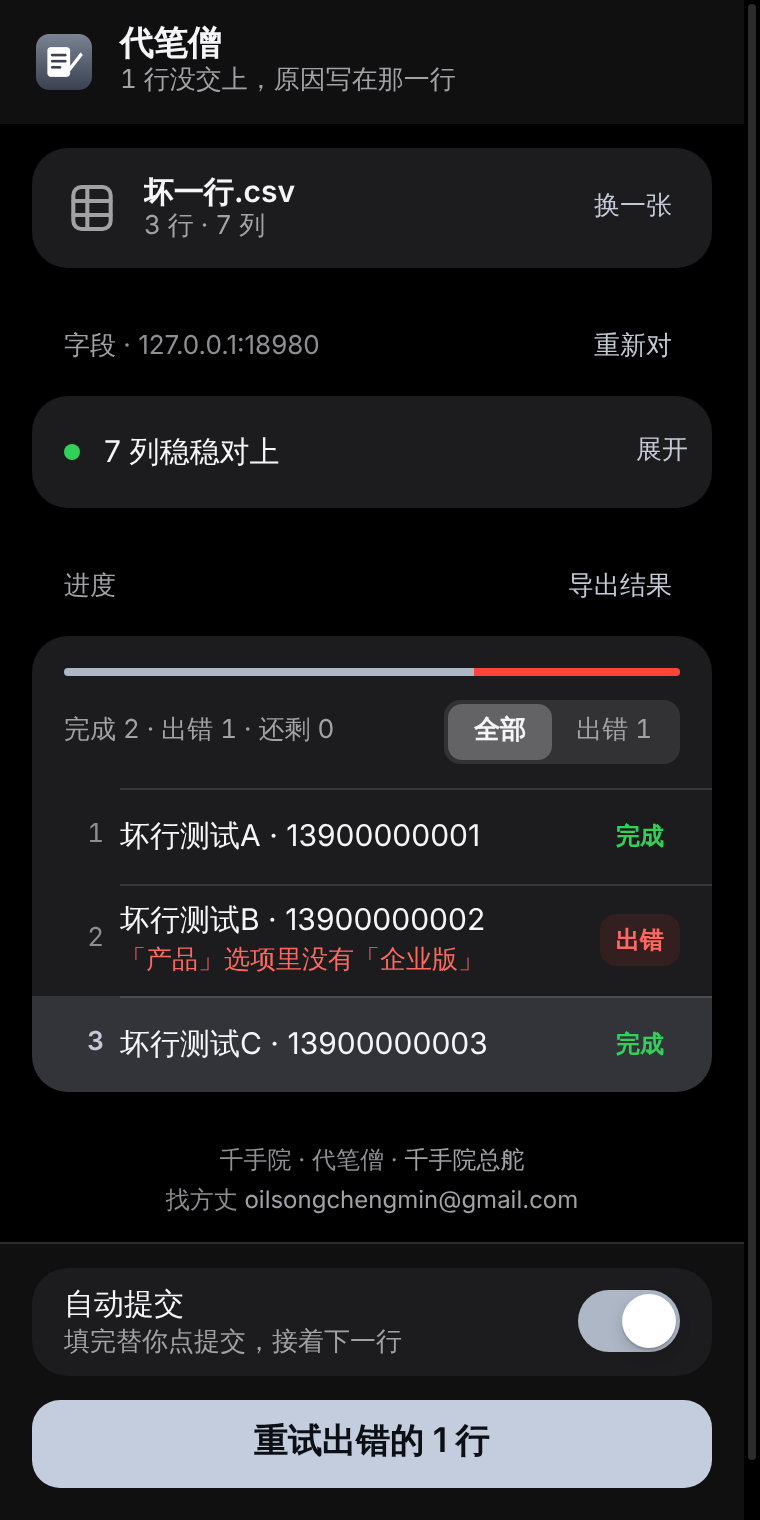
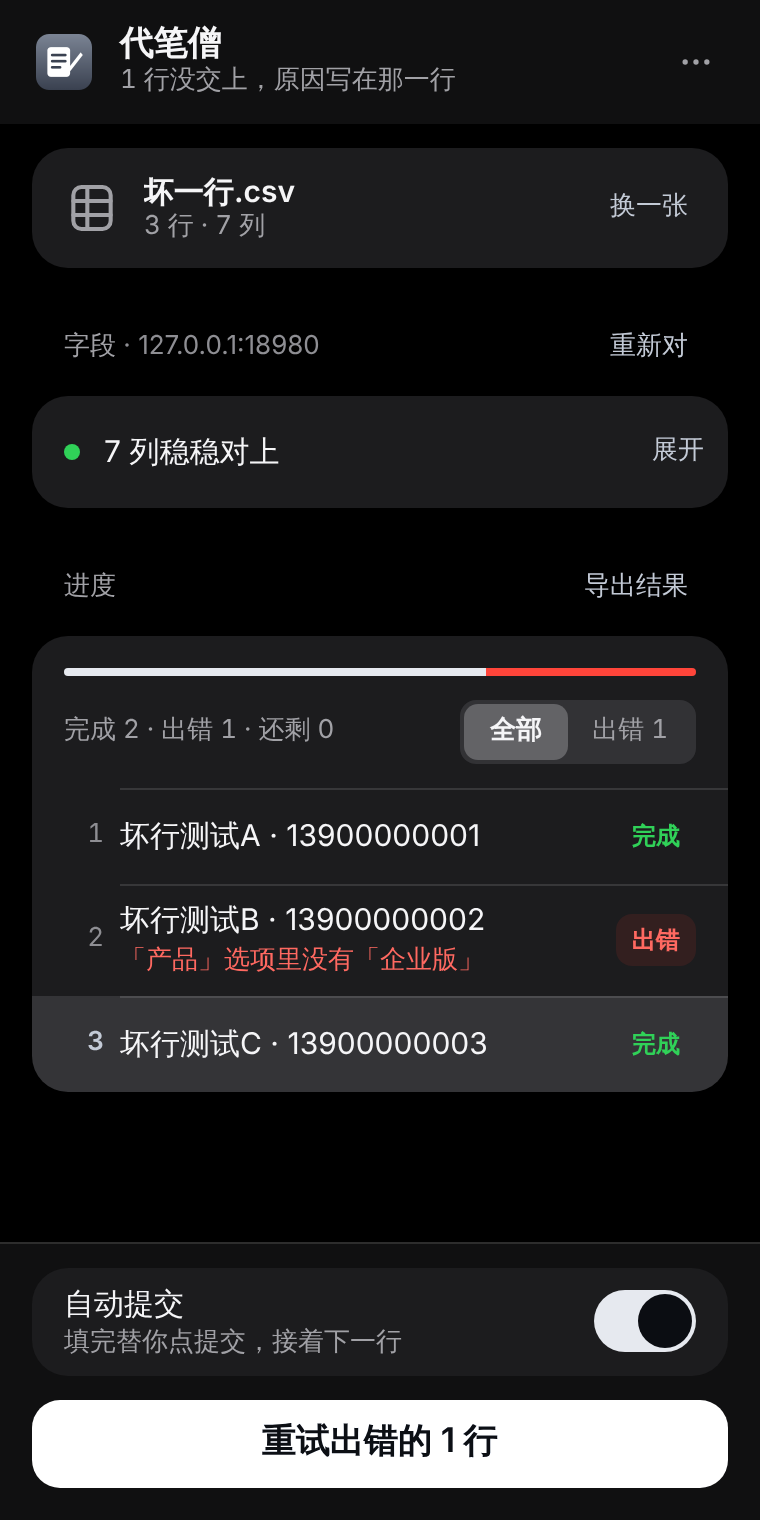
代笔僧 0.3.0：提示条挪进底栏主按钮上方、底色不透明不压不透字；深色主色提到 #E6E9EF（字对按钮 16.0:1）；页脚收进顶栏「…」菜单
- 提示条（撤 / 停 / 从头来）不再浮在顶上压文件卡：放在底栏里主按钮上方占自己的位置，底栏变高、列表跟着留白；底色浅 #fff、深 #2c2c2e + 毛玻璃
- 深色主色 #AEB7C6 → #E6E9EF（深字 #0b0d12，16.0:1；按钮对黑底 17.3:1），进度条、开关（钮改深色）、当前行同步；链接 #C3CAD6；介绍页、示例表单一起改
- 署名、千手院总舵、找方丈收进顶栏右上角「…」菜单，侧栏正文不再有页脚
- 重出 shots-0.3（侧栏 8 张 + 菜单 2 张、介绍页、示例表单）和 img/，重打 dist/daibi-0.3.0.zip；e2e 52 项全过

Claude-Session: https://claude.ai/code/session_01KCV9xrugD8gYybbP9zkdxi

diff --git a/daibi/extension/panel.css b/daibi/extension/panel.css
@@ -9,6 +9,19 @@ body{min-height:100vh;padding-bottom:calc(var(--dock-h,96px) + 16px)}
 /* 顶栏：毛玻璃，滚动时浮在上面 */
 .top{position:sticky;top:0;z-index:6;display:flex;align-items:center;gap:12px;padding:12px 16px;margin-bottom:12px;background:var(--glass);-webkit-backdrop-filter:saturate(180%) blur(20px);backdrop-filter:saturate(180%) blur(20px)}
 .logo{width:32px;height:32px;flex:none}
+/* 右上角「…」：署名、总舵、找方丈收在这里 */
+.more{position:relative;flex:none;margin-left:auto;width:32px;height:32px;border-radius:50%;display:grid;place-items:center;color:var(--fg-2);transition:background-color var(--t) var(--ease)}
+.more::after{content:"";position:absolute;inset:-6px}
+.more:hover,.more[aria-expanded=true]{background:var(--fill)}
+.more svg{width:20px;height:20px;fill:currentColor}
+.menu{position:absolute;top:56px;right:12px;z-index:8;min-width:248px;padding:4px 0;border-radius:14px;background:var(--toast-bg);-webkit-backdrop-filter:saturate(180%) blur(20px);backdrop-filter:saturate(180%) blur(20px);box-shadow:0 0 0 .5px var(--line),var(--shadow);animation:tin var(--t) var(--ease)}
+.menu-h{margin:0;padding:12px 16px 8px;color:var(--fg-2);font-size:13px;font-variant-numeric:tabular-nums}
+.menu-i{position:relative;display:flex;align-items:center;justify-content:space-between;gap:12px;min-height:44px;padding:0 16px;color:var(--fg);font-size:15px;text-decoration:none}
+.menu-i::before{content:"";position:absolute;top:0;left:16px;right:0;border-top:.5px solid var(--line)}
+a.menu-i{color:var(--accent-fg)}
+a.menu-i:hover{background:var(--fill)}
+.menu-mail{flex-direction:column;align-items:flex-start;justify-content:center;gap:2px;padding:8px 16px 12px}
+.menu-mail .mail{color:var(--fg-2);font-size:13px;user-select:text;-webkit-user-select:text}
 .top-t{min-width:0}
 .top h1{margin:0;font-size:17px;font-weight:600;line-height:1.2}
 .top p{margin:0;color:var(--fg-2);font-size:13px;line-height:1.35;white-space:nowrap;overflow:hidden;text-overflow:ellipsis;font-variant-numeric:tabular-nums}
@@ -113,16 +126,16 @@ body.over .dropmask{opacity:1}
 .warn-a{display:flex;justify-content:flex-end;gap:8px}
 
 /* 提示条：顶上，毛玻璃，带「撤」 */
-.toast{position:fixed;left:16px;right:16px;top:60px;z-index:9;display:flex;align-items:center;gap:12px;min-height:48px;padding:8px 8px 8px 16px;border-radius:14px;background:rgba(29,29,31,.94);-webkit-backdrop-filter:saturate(180%) blur(20px);backdrop-filter:saturate(180%) blur(20px);color:#f5f5f7;font-size:13px;line-height:1.4;opacity:0;transform:translateY(-8px);pointer-events:none;transition:opacity var(--t) var(--ease),transform var(--t) var(--ease)}
-.toast.on{opacity:1;transform:none;pointer-events:auto}
-.toast span{flex:1}
-.toast button{flex:none;height:32px;min-width:44px;padding:0 12px;border-radius:var(--r-chip);background:rgba(255,255,255,.16);color:#fff;font-size:13px;font-weight:600}
-.toast button:hover{background:rgba(255,255,255,.24)}
-@media (prefers-color-scheme:dark){.toast{background:rgba(58,58,60,.97)}}
+/* 提示条：在底栏里、主按钮上方占自己的位置（不压内容），毛玻璃 + 够不透明的底；一句话 + 一个「撤 / 停 / 从头来」 */
+.toast{display:none;align-items:center;gap:12px;min-height:52px;padding:8px 8px 8px 16px;border-radius:var(--r-card);background:var(--toast-bg);-webkit-backdrop-filter:saturate(180%) blur(20px);backdrop-filter:saturate(180%) blur(20px);box-shadow:0 0 0 .5px var(--line);color:var(--fg);font-size:13px;line-height:1.4}
+.toast.on{display:flex;animation:tin var(--t) var(--ease)}
+@keyframes tin{from{opacity:0;transform:translateY(4px)}}
+.toast span{flex:1;min-width:0}
+.toast .qs-btn{flex:none}
 
 /* 小按钮看着 32 高，点的范围撑到 44 */
-.qs-btn.sm,.fbtn,.fx,.seg button,.sheets button,.toast button,.qs-link{position:relative}
-.qs-btn.sm::after,.fbtn::after,.seg button::after,.sheets button::after,.toast button::after,.qs-link::after{content:"";position:absolute;inset:-6px 0}
+.qs-btn.sm,.fbtn,.fx,.seg button,.sheets button,.qs-link{position:relative}
+.qs-btn.sm::after,.fbtn::after,.seg button::after,.sheets button::after,.qs-link::after{content:"";position:absolute;inset:-6px 0}
 .seg button::after{inset:-8px 0}
 .fx::after{content:"";position:absolute;inset:-6px}
 /* 收工：进度条亮一下 */

diff --git a/daibi/extension/lib/ui.css b/daibi/extension/lib/ui.css
@@ -10,7 +10,7 @@
   --accent:#3A4150; --on-accent:#ffffff; --accent-fg:#3A4150; --accent-tint:rgba(58,65,80,.08);
   --r-card:18px; --r-btn:12px; --r-field:10px; --r-chip:8px;
   --shadow:0 1px 2px rgba(0,0,0,.04),0 8px 24px rgba(0,0,0,.06);
-  --glass:rgba(245,245,247,.78);
+  --glass:rgba(245,245,247,.78); --toast-bg:#ffffff;
   --ease:cubic-bezier(.2,.8,.2,1); --t:240ms;
   color-scheme:light;
 }
@@ -20,9 +20,9 @@
   --line:rgba(255,255,255,.12); --fill:rgba(120,120,128,.24); --fill-2:rgba(120,120,128,.36);
   --ok:#30d158; --warn:#ffd60a; --bad:#ff453a; --doubt:rgba(255,214,10,.2);
   --ok-fg:#30d158; --bad-fg:#ff6961;
-  /* 墨色在黑底上看不见：提亮一档成淡墨灰，按钮上的字改深色 */
-  --accent:#AEB7C6; --on-accent:#0b0d12; --accent-fg:#C3CAD6; --accent-tint:rgba(174,183,198,.16);
-  --shadow:none; --glass:rgba(22,22,24,.72);
+  /* 墨色在黑底上看不见：提到接近白（墨里的白），按钮上的字改深色；链接用浅一档的墨灰，跟正文分得开 */
+  --accent:#E6E9EF; --on-accent:#0b0d12; --accent-fg:#C3CAD6; --accent-tint:rgba(230,233,239,.12);
+  --shadow:none; --glass:rgba(22,22,24,.72); --toast-bg:#2c2c2e;
   color-scheme:dark;
 }}
 *{box-sizing:border-box}
@@ -60,9 +60,5 @@ button{background:none;border:0;padding:0;cursor:pointer}
 .qs-switch::after{content:"";position:absolute;top:2px;left:2px;width:27px;height:27px;border-radius:50%;background:#fff;box-shadow:0 3px 8px rgba(0,0,0,.15),0 1px 1px rgba(0,0,0,.16);transition:transform var(--t) var(--ease)}
 .qs-switch:checked{background:var(--accent)}
 .qs-switch:checked::after{transform:translateX(20px)}
-@media (prefers-color-scheme:dark){.qs-switch:checked::after{background:#fff}}
+@media (prefers-color-scheme:dark){.qs-switch:checked::after{background:#0b0d12;box-shadow:none}} /* 深色：开关的底是接近白的主色，钮改深色才看得见 */
 
-.qs-foot{padding:0 16px 24px;color:var(--fg-3);font-size:12px;line-height:1.7;text-align:center}
-.qs-foot a{color:var(--fg-2);text-decoration:none}
-.qs-foot a:hover{text-decoration:underline}
-.qs-foot .mail{user-select:text;-webkit-user-select:text;color:var(--fg-2)}

diff --git a/daibi/extension/panel.html b/daibi/extension/panel.html
@@ -14,6 +14,12 @@
     <h1 data-t="app.name"></h1>
     <p id="status"></p>
   </div>
+  <button class="more" id="btnMore" aria-haspopup="menu" aria-expanded="false" data-t-aria="menu.more"><svg viewBox="0 0 24 24" aria-hidden="true"><circle cx="5.5" cy="12" r="1.6"/><circle cx="12" cy="12" r="1.6"/><circle cx="18.5" cy="12" r="1.6"/></svg></button>
+  <div class="menu" id="menu" role="menu" hidden>
+    <p class="menu-h"><span data-t="foot.by"></span> <span id="ver"></span></p>
+    <a class="menu-i" id="homeLink" role="menuitem" target="_blank" rel="noopener" data-t="common.home"></a>
+    <div class="menu-i menu-mail"><span data-t="common.contact"></span><span class="mail" data-t="common.email"></span></div>
+  </div>
 </header>
 
 <main id="main">
@@ -90,10 +96,6 @@
     </div>
   </section>
 
-  <footer class="qs-foot">
-    <span data-t="foot.by"></span> · <a id="homeLink" target="_blank" rel="noopener" data-t="common.home"></a><br>
-    <span data-t="common.contact"></span> <span class="mail" data-t="common.email"></span>
-  </footer>
 </main>
 
 <div class="dock" id="dock">
@@ -102,11 +104,11 @@
     <p id="warnTxt"></p>
     <div class="warn-a"><button class="qs-btn plain sm" id="warnGo" data-t="warn.go"></button><button class="qs-btn gray sm" id="warnPick" data-t="warn.pick"></button></div>
   </div>
+  <div class="toast" id="toast" role="status" aria-live="polite"><span id="toastTxt"></span><button class="qs-btn gray sm" id="toastAct" hidden></button></div>
   <button class="qs-btn big pri" id="btnMain"></button>
   <button class="qs-btn plain retry" id="btnRetry" hidden></button>
 </div>
 
-<div class="toast" id="toast" role="status" aria-live="polite"><span id="toastTxt"></span><button id="toastAct" hidden></button></div>
 <div class="dropmask" aria-hidden="true"><span data-t="table.dropHere"></span></div>
 
 <script src="lib/i18n.js"></script>

diff --git a/daibi/extension/panel.js b/daibi/extension/panel.js
@@ -7,6 +7,12 @@
   const sleep = ms => new Promise(r => setTimeout(r, ms));
   apply();
   $('homeLink').href = t('common.homeUrl');
+  $('ver').textContent = chrome.runtime.getManifest().version;
+  // 顶栏右上角「…」：署名、总舵、找方丈都收在这里，侧栏正文只干一件事
+  const menuOpen = on => { $('menu').hidden = !on; $('btnMore').setAttribute('aria-expanded', String(on)); };
+  $('btnMore').onclick = e => { e.stopPropagation(); menuOpen($('menu').hidden); };
+  document.addEventListener('click', e => { if (!$('menu').hidden && !e.target.closest('#menu')) menuOpen(false); });
+  document.addEventListener('keydown', e => { if (e.key === 'Escape' && !$('menu').hidden) menuOpen(false); });
 
   const SETTINGS = store.settings('daibi', [
     { key: 'auto', type: 'bool', def: false, label: 'set.auto', hint: 'set.autoHint' }

diff --git a/daibi/bench/shots03.js b/daibi/bench/shots03.js
@@ -58,6 +58,10 @@ const sleep = ms => new Promise(r => setTimeout(r, ms));
 
   // 1 空状态
   await both('panel-1-empty');
+  // 右上角「…」：署名、总舵、找方丈
+  await panel.click('#btnMore'); await sleep(300);
+  await both('panel-5-menu');
+  await panel.keyboard.press('Escape'); await sleep(200);
   // 2 干活中：用示例试试 → 自己对字段、填第 1 行；人交两行，第 3 行填好等提交
   await panel.click('#btnDemo');
   await waitFor(async () => (await st())[0] === 'filled', 10000);

diff --git a/daibi/demo/index.html b/daibi/demo/index.html
@@ -23,7 +23,7 @@
   --bg:#000000; --bg-group:#000000; --card:#1c1c1e; --card-2:#2c2c2e;
   --fg:#f5f5f7; --fg-2:#a1a1a6; --fg-3:#8e8e93;
   --line:rgba(255,255,255,.12); --fill:rgba(120,120,128,.24); --fill-2:rgba(120,120,128,.36);
-  --ok:#30d158; --accent:#AEB7C6; --on-accent:#0b0d12; --accent-fg:#C3CAD6; --shadow:none; color-scheme:dark;
+  --ok:#30d158; --accent:#E6E9EF; --on-accent:#0b0d12; --accent-fg:#C3CAD6; --shadow:none; color-scheme:dark;
 }}
 *{box-sizing:border-box}
 html{-webkit-text-size-adjust:100%}

diff --git a/daibi/index.html b/daibi/index.html
@@ -28,7 +28,7 @@
   --fg:#f5f5f7; --fg-2:#a1a1a6; --fg-3:#8e8e93;
   --line:rgba(255,255,255,.12); --fill:rgba(120,120,128,.24); --fill-2:rgba(120,120,128,.36);
   --ok:#30d158; --warn:#ffd60a; --bad:#ff453a; --shadow:none;
-  --accent:#AEB7C6; --on-accent:#0b0d12; --accent-fg:#C3CAD6;
+  --accent:#E6E9EF; --on-accent:#0b0d12; --accent-fg:#C3CAD6;
   --glass:rgba(22,22,24,.72);
   color-scheme:dark;
 }}

diff --git a/daibi/extension/strings.js b/daibi/extension/strings.js
@@ -131,5 +131,6 @@ QSLib.i18n.add('zh', {
   'err.NO_FILE': '「{col}」：附件里没有「{v}」',
   'err.ONE_FILE': '「{col}」只收一个文件',
 
-  'foot.by': '千手院 · 代笔僧'
+  'foot.by': '千手院 · 代笔僧',
+  'menu.more': '更多'
 });

diff --git a/daibi/bench/比武报告.md b/daibi/bench/比武报告.md
@@ -367,14 +367,14 @@ xvfb-run -a node daibi/bench/shots03.js                                         
 
 ### 5. 好看（照 _ops/设计规范.md 逐节打勾）
 
-截图在 `bench/shots-0.3/`：侧栏 8 张 `panel-{1-empty,2-working,3-result,4-error}-{light,dark}.png`（380 宽）；介绍页 `site-{390,1280}-{light,dark}.png`（整页）；示例表单 `demo-form-*.png`；apple.com 参照 `ref-apple-macos.jpg`、`ref-apple-iphone.jpg`（沙盒打得开）。
+截图在 `bench/shots-0.3/`：侧栏 8 张 `panel-{1-empty,2-working,3-result,4-error}-{light,dark}.png`（380 宽），另加「…」菜单 2 张 `panel-5-menu-{light,dark}.png`；介绍页 `site-{390,1280}-{light,dark}.png`（整页）；示例表单 `demo-form-*.png`；apple.com 参照 `ref-apple-macos.jpg`、`ref-apple-iphone.jpg`（沙盒打得开）。
 
 | 规范 | 打勾 | 怎么做的 / 不合的原因 |
 |---|---|---|
 | 一屏一件事，一个主按钮 | ✓ | 侧栏底部一个主按钮（没表「选文件」→ 填 / 连填 → 只剩出错「重试出错的 N 行」→ 全交完「再放一张表」）；空状态的「用示例试试」是灰的次按钮 |
 | 能自动的事不出按钮 | ✓ | 填第 1 行、回表单、接着上回都自动做，只给撤销 |
 | 一个主色，其余灰 | ✓ | 代笔僧墨 #3A4150 只在主按钮、开关打开、进度条、当前行、链接；状态色只给字（完成绿、出错红） |
-| 跟随浅深色，深色不是取反 | ✓ | 深色主色提亮成淡墨灰 #AEB7C6、按钮字改深色（对比 9.6:1）；浅色白字对比 10.2:1；深色不用阴影，卡片 #1c1c1e 抬起 |
+| 跟随浅深色，深色不是取反 | ✓ | 浅色：主按钮墨色 #3A4150 白字，对比 10.2:1。深色：主色提到接近白 #E6E9EF、按钮字 #0b0d12，字对按钮 16.0:1，按钮对黑底 17.3:1（侧栏、介绍页、示例表单一起改）；进度条、开关（钮改深色）、当前行同步；链接用浅一档的 #C3CAD6（对 #1c1c1e 卡片 10.3:1），跟正文分得开。初版深色主色 #AEB7C6 看着像禁用，队长退回后改的。深色不用阴影，卡片 #1c1c1e 抬起 |
 | 颜色变量照抄 | ✓ | `extension/lib/ui.css`、`index.html`、`demo/index.html` 都是规范那段 |
 | 存疑标黄 --doubt | ✓ | 「等你提交」、没对稳的字段行、开跑前提醒都是黄底，不用红框 |
 | 系统字体、数字等宽 | ✓ | 没引任何网字；进度、行号、表信息 tabular-nums |
@@ -386,7 +386,7 @@ xvfb-run -a node daibi/bench/shots03.js                                         
 | 阴影只用 --shadow，深色不用 | ✓ | 例外：开关的白钮带 iOS 同款小阴影（不然白钮在浅底上看不见） |
 | 分组列表，行高 ≥ 44，分隔线从文字起 | ✓ | 字段行 56、进度行 48；分隔线从字左边起 |
 | 能点的 ≥ 44×44 | ✓ | 小按钮看着 32 高，`::after` 把点的范围撑到 44 |
-| 顶栏、浮层毛玻璃 | ✓ | 侧栏顶栏、底栏、提示条；介绍页顶栏 |
+| 顶栏、浮层毛玻璃 | ✓ | 侧栏顶栏、底栏、「…」菜单、提示条；介绍页顶栏。提示条初版浮在顶上压着文件卡、半透明透出底下的字，队长退回后改成：放在底栏里主按钮上方、占自己的位置（底栏变高，列表底部跟着留白），底色不透明（浅 #fff、深 #2c2c2e），不压内容也不透字 |
 | 线性图标 2px 圆头，本尊图标统一 | ✓ | 侧栏和介绍页的小图标都是线性；本尊图标照总舵卡片（墨色渐变底 + 白纸三行 + 白笔），出 16/32/48/128，16 px 少一行、线加粗 |
 | 过渡 200–300ms、--ease、不弹跳 | ✓ | 240ms |
 | 超过 1 秒有进度，做完轻完成动效 | ✓ | 连填有细进度条 + 顶栏「在填第 N 行，共 20 行」；收工时进度条亮一下 + 一句「20 行全交了，收工」 |
@@ -395,7 +395,7 @@ xvfb-run -a node daibi/bench/shots03.js                                         
 | 拖放整页能丢、整页高亮 | ✓ | 整个侧栏都能丢，拖进来整页描边高亮「松手，贫僧接着」 |
 | 空状态一句话 + 用示例试试 | ✓ | 「把 Excel 丢进来」+「用示例试试」：读 5 行示例表、打开示例表单、自己对字段、填第 1 行 |
 | 出错一句人话 + 怎么办，放在出事的地方 | ✓ | 行内写原因（「『产品』选项里没有『企业版』」），主按钮变「重试出错的 1 行」；没有 alert / confirm |
-| 插件宽 360–400，顶部名字 + 状态，主按钮在底部 | ✓ | 380；顶栏一句状态「第 3 行填好了，等你提交」 |
+| 插件宽 360–400，顶部名字 + 状态，主按钮在底部 | ✓ | 380；顶栏一句状态「第 3 行填好了，等你提交」。署名、千手院总舵、找方丈收进顶栏右上角「…」菜单（`panel-5-menu-*.png`），侧栏正文只有表格 / 字段 / 进度 |
 | 网页最宽 980，390 单列无横向滚动 | ✓ | 截图脚本量了 scrollWidth，390 宽介绍页、示例表单都没横向滚动 |
 | 首屏一句大标题、一句副标题、主操作 | ✓ | 代笔僧 / 施主喝茶，贫僧代笔 / 下载插件 |
 | 别这样（AI 味）清单 | ✓ | 没满屏渐变（只有本尊图标自带总舵卡片那道渐变）、没 emoji 图标（0.2.2 介绍页的 emoji 换成线性图标）、没全大写、没 12px 正文、没默认下拉 |

diff --git a/daibi/docs/设计记录.md b/daibi/docs/设计记录.md
@@ -26,7 +26,7 @@ daibi/
       page.js           读页面：列字段（单选/复选按 name 成组；自定义下拉按外壳算一个；只读日期框、分段日期框算 datetext；钻 open Shadow DOM）、找 label、生成选择器、点选元素、高亮、认验证码
       i18n.js           文案机制：add / t / apply(data-t)
       store.js          chrome.storage.local 封装 + 设置项 schema 渲染（设置页）
-      ui.css            照 _ops/设计规范.md 的颜色/字/圆角 token（主色 代笔僧墨 #3A4150，深色提亮成 #AEB7C6 配深色字）、卡片、按钮、iOS 开关、设置行、页脚
+      ui.css            照 _ops/设计规范.md 的颜色/字/圆角 token（主色 代笔僧墨 #3A4150；深色提到接近白 #E6E9EF 配深色字，链接 #C3CAD6）、卡片、按钮、iOS 开关、设置行
   test/
     site.js             本地测试站，一个进程 5 个端口 = 5 个网站：订单单页 / 两页向导+成功页 / Ajax 不跳页 / 验证码 / 附件上传（multipart）；
                         任意端口 /sheet.csv 模拟表格链接（POST /api/sheetrows?n= 改行数），/private 模拟要登录的链接
@@ -65,12 +65,12 @@ daibi/
 
 ## 长相（0.3.0，照 _ops/设计规范.md）
 
-- 侧栏：顶栏毛玻璃（图标 + 名字 + 一句状态：「第 3 行填好了，等你提交」）；中间分组卡片（表格 / 字段 / 进度）；底部毛玻璃 dock，一个主按钮（44 高，圆角 14）。
+- 侧栏：顶栏毛玻璃（图标 + 名字 + 一句状态：「第 3 行填好了，等你提交」+ 右上角「…」菜单，署名、千手院总舵、找方丈都收在里面，正文里不放页脚）；中间分组卡片（表格 / 字段 / 进度）；底部毛玻璃 dock，一个主按钮（44 高，圆角 14）。
 - 正文 15、辅助 13、注脚 12；圆角 卡片 18 / 按钮 12 / 小按钮 8；间距 4 的倍数；分隔线从文字左边起；行高 ≥ 48。
 - 主色只用在主按钮、开关打开、进度条、当前行；状态色只给字（完成绿、出错红），「等你提交」用 --doubt 黄底。
 - 原生 select（多工作表）换成分段控件；「自动提交」是 iOS 开关；整个侧栏都能丢文件，拖进来整页高亮（`.dropmask`）。
 - 小按钮看着 32 高，`::after` 把点的范围撑到 44；滚动条细化；`prefers-reduced-motion` 全关动画；收工时进度条亮一下。
-- 提示条：顶上毛玻璃条，一句话 + 一个「撤 / 停 / 从头来」。
+- 提示条：在底栏里、主按钮上方占自己的位置（不浮在内容上，底栏变高、列表底部跟着留白），底色不透明（浅 #fff、深 #2c2c2e）+ 毛玻璃；一句话 + 一个「撤 / 停 / 从头来」。初版浮在顶上压文件卡、透字，队长退回改的。
 - 图标：总舵首页卡片那个（墨色渐变底 + 白纸三行 + 白笔），`node daibi/bench/icons.js` 出 16/32/48/128 和 img/icon.png；16 px 少一行、线加粗。
 
 ## 下拉 / iframe / 日历 / 弹框 / 千分位（0.2.1）
